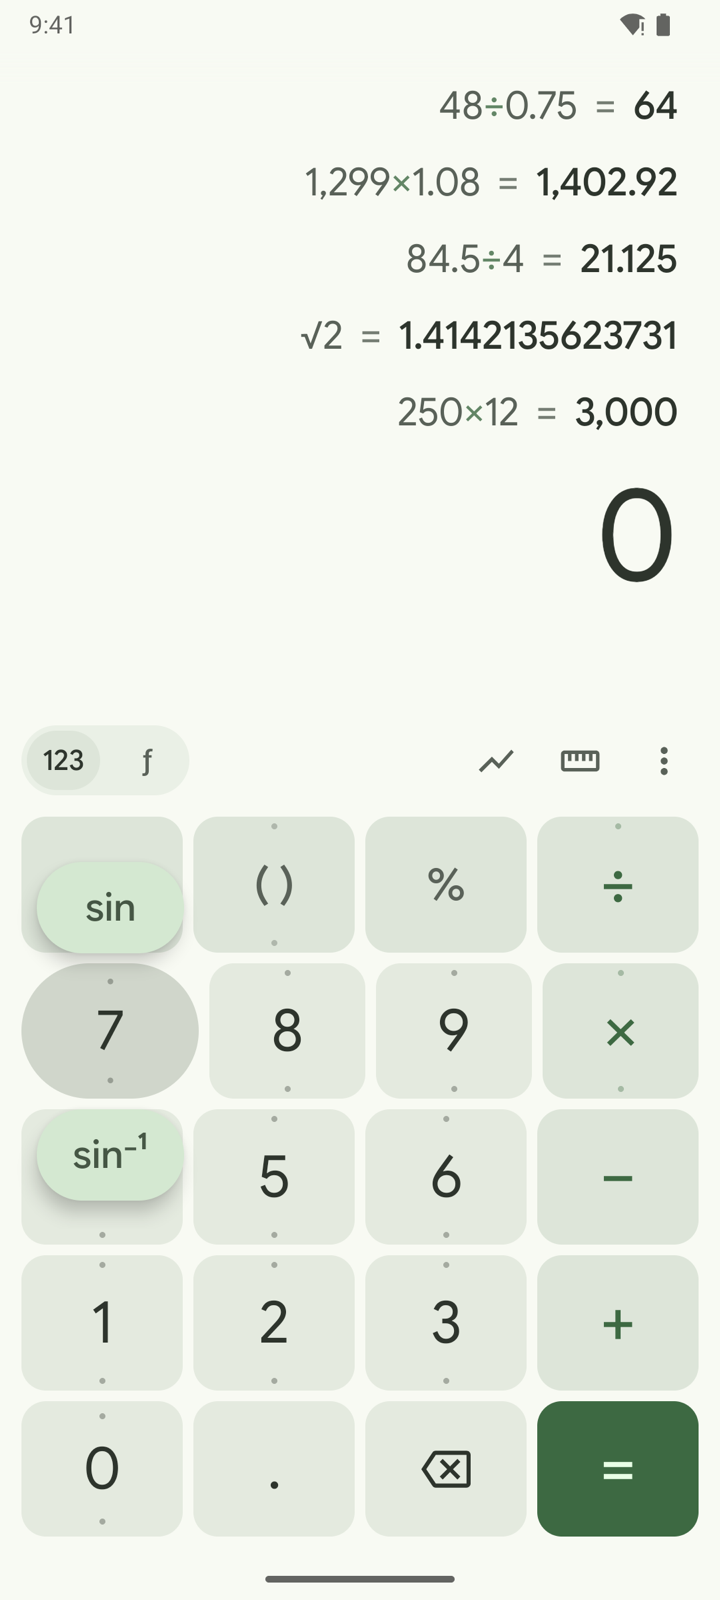
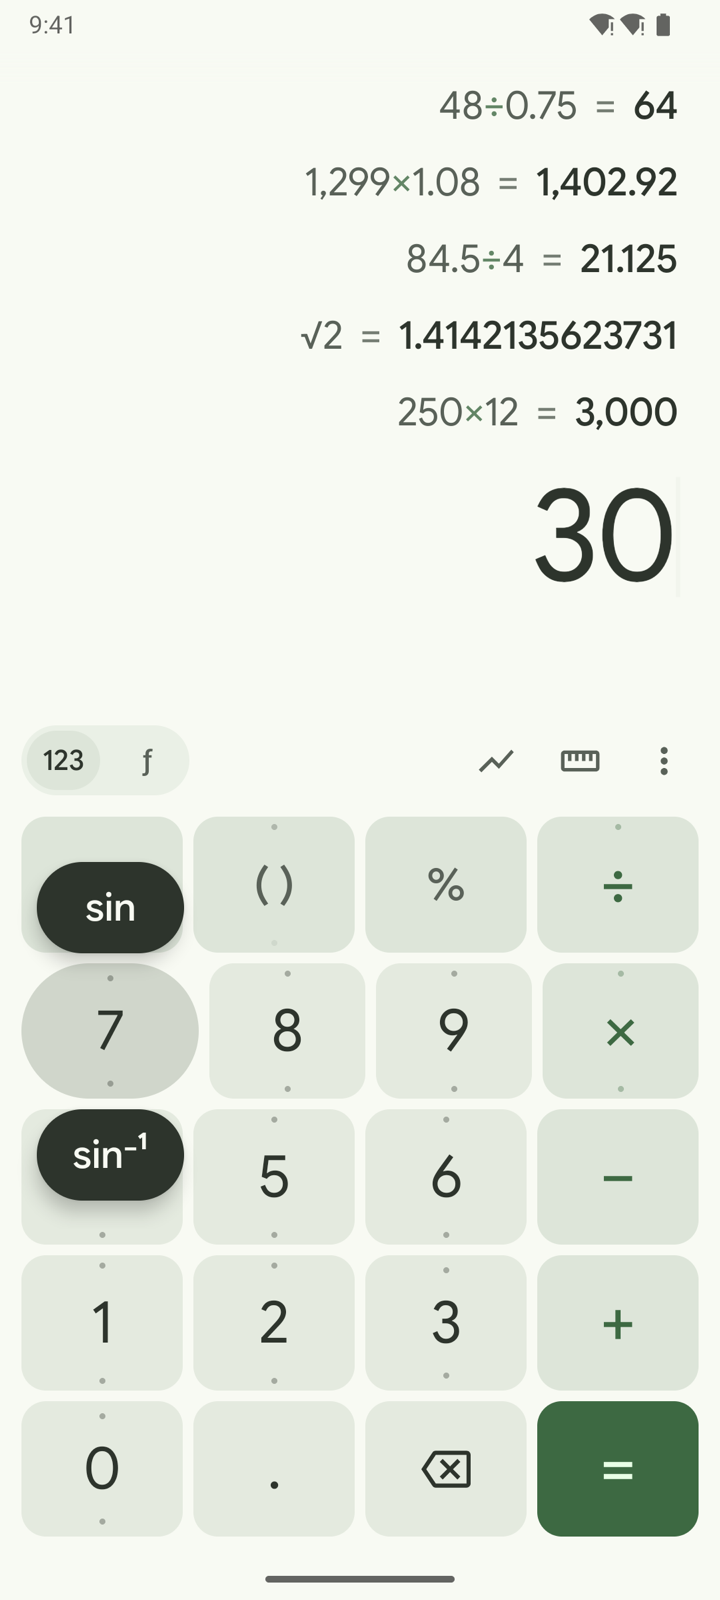
A README for people, a demo you can watch, clearer flick bubbles
- README rewritten for anyone deciding whether to use Calcula: the pitch, a
  looping demo, what people like about it, screenshots, privacy and where it
  comes from; no build or module notes
- docs/demo.webp: an 11-second loop (152 KB) of flicking the 7 for sin, the ƒ
  layer flipping in, x², and flicking the 2 for √
- Screenshots: Settings dropped, the flick shot retaken with the new bubbles
- Flick bubbles read like tooltips (dark on light themes, light on dark) instead
  of a pale tint on pale keys; the one the finger heads to takes the accent
- Flick dots stay fixed to the key while its face follows the finger, so they
  never slide past the edge; they sit 4 to 8dp in, and a flick that would do
  nothing right now barely shows its dot

diff --git a/shared/src/commonMain/kotlin/com/bernaferrari/calculator/ui/calculator/KeyCell.kt b/shared/src/commonMain/kotlin/com/bernaferrari/calculator/ui/calculator/KeyCell.kt
@@ -274,13 +274,16 @@ fun KeyCell(
                 up?.let { Text(it.label, style = small, maxLines = 1, color = content.copy(alpha = if (!it.enabled) 0.25f else if (selection == Swipe.Up) 1f else 0.55f), modifier = Modifier.align(Alignment.TopCenter).offset(y = (-5).dp)) }
                 down?.let { Text(it.label, style = small, maxLines = 1, color = content.copy(alpha = if (!it.enabled) 0.25f else if (selection == Swipe.Down) 1f else 0.55f), modifier = Modifier.align(Alignment.BottomCenter).offset(y = 5.dp)) }
             }
-            if (showDots && !labelFlicks) {
-                // The gap from the key's edge grows with the key: 9% of its height, 4 to 9dp. Short graph
-                // keys keep the dots clear of the label; tall tablet keys don't crowd them into the corner.
-                // (The face is already inset by FaceInset, so the offset is measured from there.)
-                val edge = with(density) { (keyHeight * 0.09f).toDp() }.coerceIn(4.dp, 9.dp)
-                if (up != null) FlickDot(selection == Swipe.Up, content, Modifier.align(Alignment.TopCenter).offset(y = edge - FaceInset))
-                if (down != null) FlickDot(selection == Swipe.Down, content, Modifier.align(Alignment.BottomCenter).offset(y = FaceInset - edge))
+        }
+        if (showDots && !labelFlicks) {
+            // The dots belong to the key, not the face: they stay put while the face follows the
+            // finger, so they never slide past the key's edge. Their gap from the edge grows with
+            // the key, 9% of its height, 4 to 8dp: clear of the label on the graph's short keys,
+            // not crowded into the corner on tall ones.
+            val edge = with(density) { (keyHeight * 0.09f).toDp() }.coerceIn(4.dp, 8.dp)
+            Box(Modifier.matchParentSize()) {
+                if (up != null) FlickDot(selection == Swipe.Up, up.enabled, content, Modifier.align(Alignment.TopCenter).offset(y = edge))
+                if (down != null) FlickDot(selection == Swipe.Down, down.enabled, content, Modifier.align(Alignment.BottomCenter).offset(y = -edge))
             }
         }
 
@@ -337,8 +340,10 @@ private fun OptionPill(label: String, selected: Boolean, enabled: Boolean, modif
     // A function with nothing to act on never lights up: it stays a quiet, faded pill.
     @Suppress("NAME_SHADOWING") val selected = selected && enabled
     val scale by animateFloatAsState(if (selected) 1.12f else 1f, spring(dampingRatio = 0.5f, stiffness = Spring.StiffnessMedium), label = "pill")
-    val container by androidx.compose.animation.animateColorAsState(if (selected) colors.primary else colors.secondaryContainer, label = "pillColor")
-    val content = if (selected) colors.onPrimary else colors.onSecondaryContainer
+    // Waiting options read like tooltips (dark on a light theme, light on a dark one), so they stand
+    // out from the pale keys they float over; the one the finger is heading to takes the accent.
+    val container by androidx.compose.animation.animateColorAsState(if (selected) colors.primary else colors.onSurface, label = "pillColor")
+    val content by androidx.compose.animation.animateColorAsState(if (selected) colors.onPrimary else colors.surface, label = "pillContent")
     Box(
         contentAlignment = Alignment.Center,
         modifier = modifier
@@ -364,7 +369,7 @@ private fun OptionPill(label: String, selected: Boolean, enabled: Boolean, modif
 
 /** A hint that the key hides a function in that direction; it swells when that function is picked. */
 @Composable
-private fun FlickDot(selected: Boolean, color: Color, modifier: Modifier) {
+private fun FlickDot(selected: Boolean, enabled: Boolean, color: Color, modifier: Modifier) {
     val size by animateFloatAsState(
         if (selected) 7f else 3.5f,
         spring(dampingRatio = 0.5f, stiffness = Spring.StiffnessMedium),
@@ -373,6 +378,7 @@ private fun FlickDot(selected: Boolean, color: Color, modifier: Modifier) {
     Box(
         modifier
             .size(size.dp)
-            .background(color.copy(alpha = if (selected) 1f else 0.35f), androidx.compose.foundation.shape.CircleShape),
+            // A flick that would do nothing right now (1/x with nothing typed) barely shows its dot.
+            .background(color.copy(alpha = if (!enabled) 0.1f else if (selected) 1f else 0.35f), androidx.compose.foundation.shape.CircleShape),
     )
 }

diff --git a/README.md b/README.md
@@ -1,71 +1,59 @@
-# Calcula
+<p align="center">
+  <img src="branding/calcula-icon.svg" width="96" alt="Calcula">
+</p>
 
-A scientific calculator for Android, iOS and the web, built with Compose Multiplatform and Material 3 Expressive. A modern rebuild of Calculator++ ([serso/android-calculatorpp](https://github.com/serso/android-calculatorpp)).
+<h1 align="center">Calcula</h1>
+
+<p align="center"><b>Flick a key. Get a function.</b></p>
 
 <p align="center">
-  <img src="docs/screenshots/01-calculator.png" width="200" alt="The calculator: a tape of past results above a live entry and its result">
-  <img src="docs/screenshots/02-functions-dark.png" width="200" alt="The ƒ layer in dark purple: keys turned into functions, the ones that would do nothing dimmed">
+  A calm, exact calculator. Every key hides two more functions: flick it up or down to reach them.<br>
+  No menus to dig through, no second screen of buttons.
+</p>
+
+<p align="center">
+  <img src="docs/demo.webp" width="300" alt="Flick the 7 up for sin, tap ƒ to turn the keys into functions, flick the 2 down for √">
+</p>
+
+<p align="center">
+  <a href="https://github.com/bernaferrari/android-calculatorpp/releases"><b>Download</b></a>
+</p>
+
+## Why people like it
+
+- **Functions under your thumb.** sin, log, √, x², π and more live on the digits. Flick up for one, down for the other, hold to see both.
+- **Or flip the whole keypad.** Tap **ƒ** and the keys turn into functions for one press, or hold it to keep them. Functions that would do nothing yet are dimmed.
+- **Exact answers.** 0.1 + 0.2 is 0.3. Smart percent: 200 + 10% is 220.
+- **A history you'll actually use.** Past results stay above the keys. Tap one to reuse it, pull down to see them all.
+- **Graphs that teach.** Up to six functions, sliders for a, b, c, d, roots and turns you can tap. Recent graphs are kept, and any one shares as an image.
+- **A unit converter, one tap away.** Length, mass, temperature, data and more, with exact factors.
+- **Edits like text.** Double-tap to select, then wrap it in parentheses or √ with one key. Copy and paste work like everywhere else.
+- **Yours to shape.** Light or dark, ten color families or your wallpaper's, and key hints as labels, dots or nothing.
+- **Big screens too.** On tablets and foldables, your history gets its own pane beside the keys.
+
+## Screenshots
+
+<p align="center">
+  <img src="docs/screenshots/01-calculator.png" width="200" alt="The calculator: a history of past results above a live entry">
+  <img src="docs/screenshots/02-functions-dark.png" width="200" alt="The ƒ layer in dark purple, with the functions that need a number first dimmed">
   <img src="docs/screenshots/03-flick.png" width="200" alt="Holding the 7: sin above it, sin⁻¹ below">
-  <img src="docs/screenshots/04-labels-dark.png" width="200" alt="Function hints as labels: each key names what a flick up or down types">
+  <img src="docs/screenshots/04-labels-dark.png" width="200" alt="Key hints as labels: every key names its flicks">
 </p>
 <p align="center">
-  <img src="docs/screenshots/05-graph.png" width="200" alt="The graph: sin(x), a·sin(b·x) with sliders, and a circle, with key points">
+  <img src="docs/screenshots/05-graph.png" width="200" alt="Graphing sin(x), a·sin(b·x) and a circle, with key points">
   <img src="docs/screenshots/06-graph-library-dark.png" width="200" alt="Recent graphs with thumbnails, one pinned">
   <img src="docs/screenshots/07-converter.png" width="200" alt="Unit converter: 22 °C is 71.6 °F">
-  <img src="docs/screenshots/08-settings-dark.png" width="200" alt="Settings: theme, color family, angle unit and more">
 </p>
 <p align="center">
-  <img src="docs/screenshots/09-tablet.png" width="820" alt="On a tablet: history in its own pane beside the calculator">
+  <img src="docs/screenshots/08-tablet.png" width="820" alt="On a tablet: history in its own pane beside the calculator">
 </p>
 
-## What makes it Calcula
+## Private by design
 
-- **Flick keys.** Swipe a key up or down for its second and third functions (sin, cos, √, x², …); hold a key to see both. Small dots mark the keys that have them.
-- **123 / ƒ.** One tap flips the keypad to a full function layer, once or locked.
-- **Paper tape.** Past calculations sit above the live entry; open history for days, swipe to delete, tap to reuse.
-- **Exact arithmetic.** A 40-digit decimal engine: `0.1 + 0.2 = 0.3`, smart percent (`200 + 10%` = 220), implicit multiplication, auto-closed parentheses.
-- **Unit converter.** Exact definitions across ten categories. It opens with the calculator's current number, and **Use** sends the converted value back.
-- **Graphs.** Up to six functions or equations in x and y, sliders for a–d, tap-to-read key points and a trace. Recent graphs are kept (pin the ones you want), and any graph shares as an image.
-- **Edits like text.** Double-tap to select, hold for all; copy, cut and paste. A selection wraps in `( )`, √ or any function with one key.
-- **Hints your way.** Keys show their flick functions as labels, dots or nothing; functions that would do nothing right now are dimmed.
-- **Any screen.** On tablets, foldables and wide browser windows, history gets its own pane beside the calculator.
+No ads, no accounts, no tracking. Your calculations never leave your device.
 
-## Modules
+## Where it comes from
 
-- `shared`: everything: engine, input rules, UI, storage. Targets Android, iOS (arm64 and simulator) and wasmJs.
-- `androidApp`: Android host (`com.bernaferrari.calcula`).
-- `iosApp`: Xcode host project.
-- `webApp`: browser host (Kotlin/Wasm).
+Calcula grows out of [Calculator++](https://github.com/serso/android-calculatorpp), the swipe-key calculator Sergey Solovyev started in 2011. Its best idea, that a key can hold more than one thing, is still at the heart of it; everything else is rebuilt from scratch, for Android, iOS and the web.
 
-## Build and run
-
-Android:
-
-```bash
-./gradlew :androidApp:installDebug
-```
-
-Web: build, then serve `webApp/build/dist/wasmJs/productionExecutable` with any static server:
-
-```bash
-./gradlew :webApp:wasmJsBrowserDistribution
-```
-
-Or a live development server:
-
-```bash
-./gradlew :webApp:wasmJsBrowserDevelopmentRun
-```
-
-iOS: open `iosApp/iosApp.xcodeproj` and run the `iosApp` scheme. The Xcode build phase calls `:shared:embedAndSignAppleFrameworkForXcode`.
-
-Tests (shared code, on the JVM and the iOS simulator):
-
-```bash
-./gradlew :shared:testAndroidHostTest :shared:iosSimulatorArm64Test
-```
-
-## Git remotes
-
-- `origin`: your fork (`bernaferrari/android-calculatorpp`)
-- `upstream`: original repo (`serso/android-calculatorpp`)
+Found a bug or have an idea? [Open an issue](https://github.com/bernaferrari/android-calculatorpp/issues).
